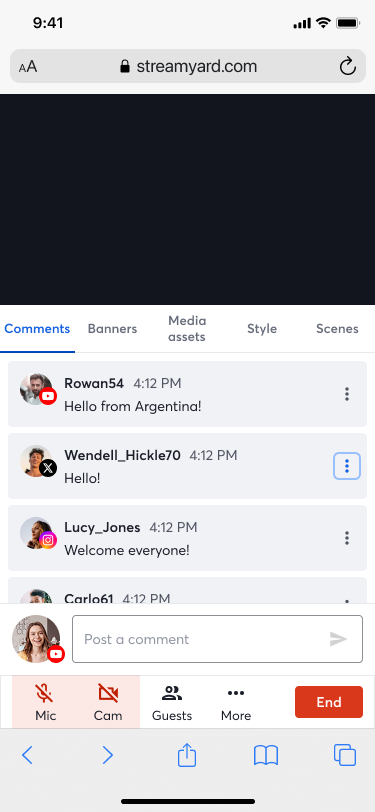
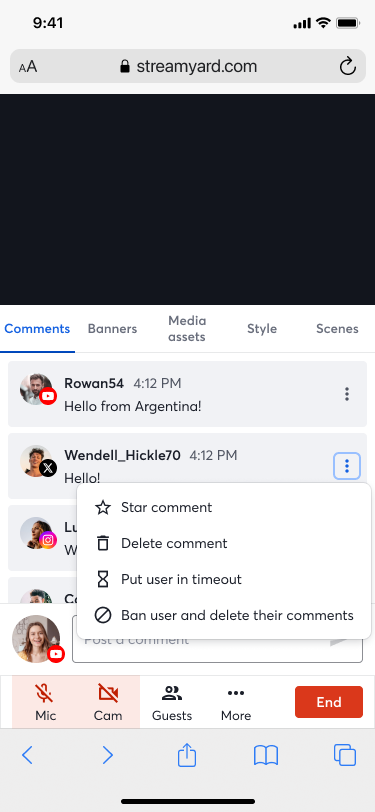
fix: image and numbers

Changed region(s): [[0.2053, 0.6158, 0.968, 0.8005], [0.9093, 0.6466, 0.9387, 0.6773], [0.0587, 0.7697, 0.088, 0.8005]]

diff --git a/_posts/2025-04-02-Reimagining StreamYard's Mobile Experience.md b/_posts/2025-04-02-Reimagining StreamYard's Mobile Experience.md
@@ -21,7 +21,7 @@ But then, because this was done very fast, I sort of became the designated perso
 
 ## Comments on Mobile
 
-1. Posting Comments
+1\. Posting Comments
 
 Again, to post comments on mobile before, you had to gain the following knowledge by osmosis: go to the "More" menu, click on "Post a Comment", and have a horrible bar at the bottom to post them. And `onSuccess`, the modals would close, so fun times! If you wanted to post several comments, good luck having the patience to reopen *TWO* menus each time.
 
@@ -34,7 +34,7 @@ The first step was to make posting comments way more intuitive. To do this, the 
 Looking much better.
 
 
-2. Select Destination
+2\. Select Destination
 
 Because most of the code was initially made to be as reusable and maintanable as possibe, we had some horrible looking UIs for mobile, that probably just about work for desktop. For example, when clicking on your comments avatar when streaming to multiple destinations, you get a menu to select which destination you want to post the comment to.
 
@@ -47,7 +47,7 @@ So I changed this to use a modal sheet, to look much cleaner and not have to cli
 ![Desktop View](/assets/img/StreamYard/Mobile-Comments/new-select-destination.png){: .normal}
 
 
-3. Interaction with Comments
+3\. Interaction with Comments
 
 And just because StreamYard's previous team seemed to love those horrible menus for mobile, we had another one for comment interaction:
 
@@ -55,14 +55,14 @@ And just because StreamYard's previous team seemed to love those horrible menus 
 
 We needed a way to get rid of the awkward 3 dots menu, which by the way, on desktop appears on hover (so not a great UI for mobile). Thanks to our amazing designer, I got to implement a new flow: touch on a comment, a menu in a modal sheet appears. Easy to close, easy to interact with. If you put a comment on the stage, it should be pinned at the top of the Comments tab (I love getting to use `sticky`!), so it is easy to find it and just as easy to un-stage it with one click (since this is a high impact functionality - users probably want to stage and unstage comments quickly). And if you favorited a comment, you would get a pretty bubble menu (which I built to be reusable, as we did have a `Tabs` in-house component for the desktop UI, but no-one had ever made an equivalent for `MobileTabs`).
 
-![Desktop View](/assets/img/StreamYard/Mobile-Comments/new-interact-with-comments.png){: .normal}
+![Desktop View](/assets/img/StreamYard/Mobile-Comments/new-interact-with-comments.png){: .center}
 
 ![Desktop View](/assets/img/StreamYard/Mobile-Comments/new-comments-favorited.png){: .normal}
 
 This one was a bit of a pain because there were a lot of corner cases to consider (like not showing certain menu options if a user doesn't have permissions, making sure error tips didn't resize components and showed properly, and different destinations allow different interactions). Really teaches one to pay attention to details.
 
 
-4. The Cherry on Top
+4\. The Cherry on Top
 
 To make the most of the limited real-estate on mobile, I now had to add a way to make the menu disappear and the stage size to be reduced when the `CommentsInput` became focused, as this means the keyboard is showing for the user (this can't be reproduced when testing on a computer, even if using the Chrome Simulator).
 
